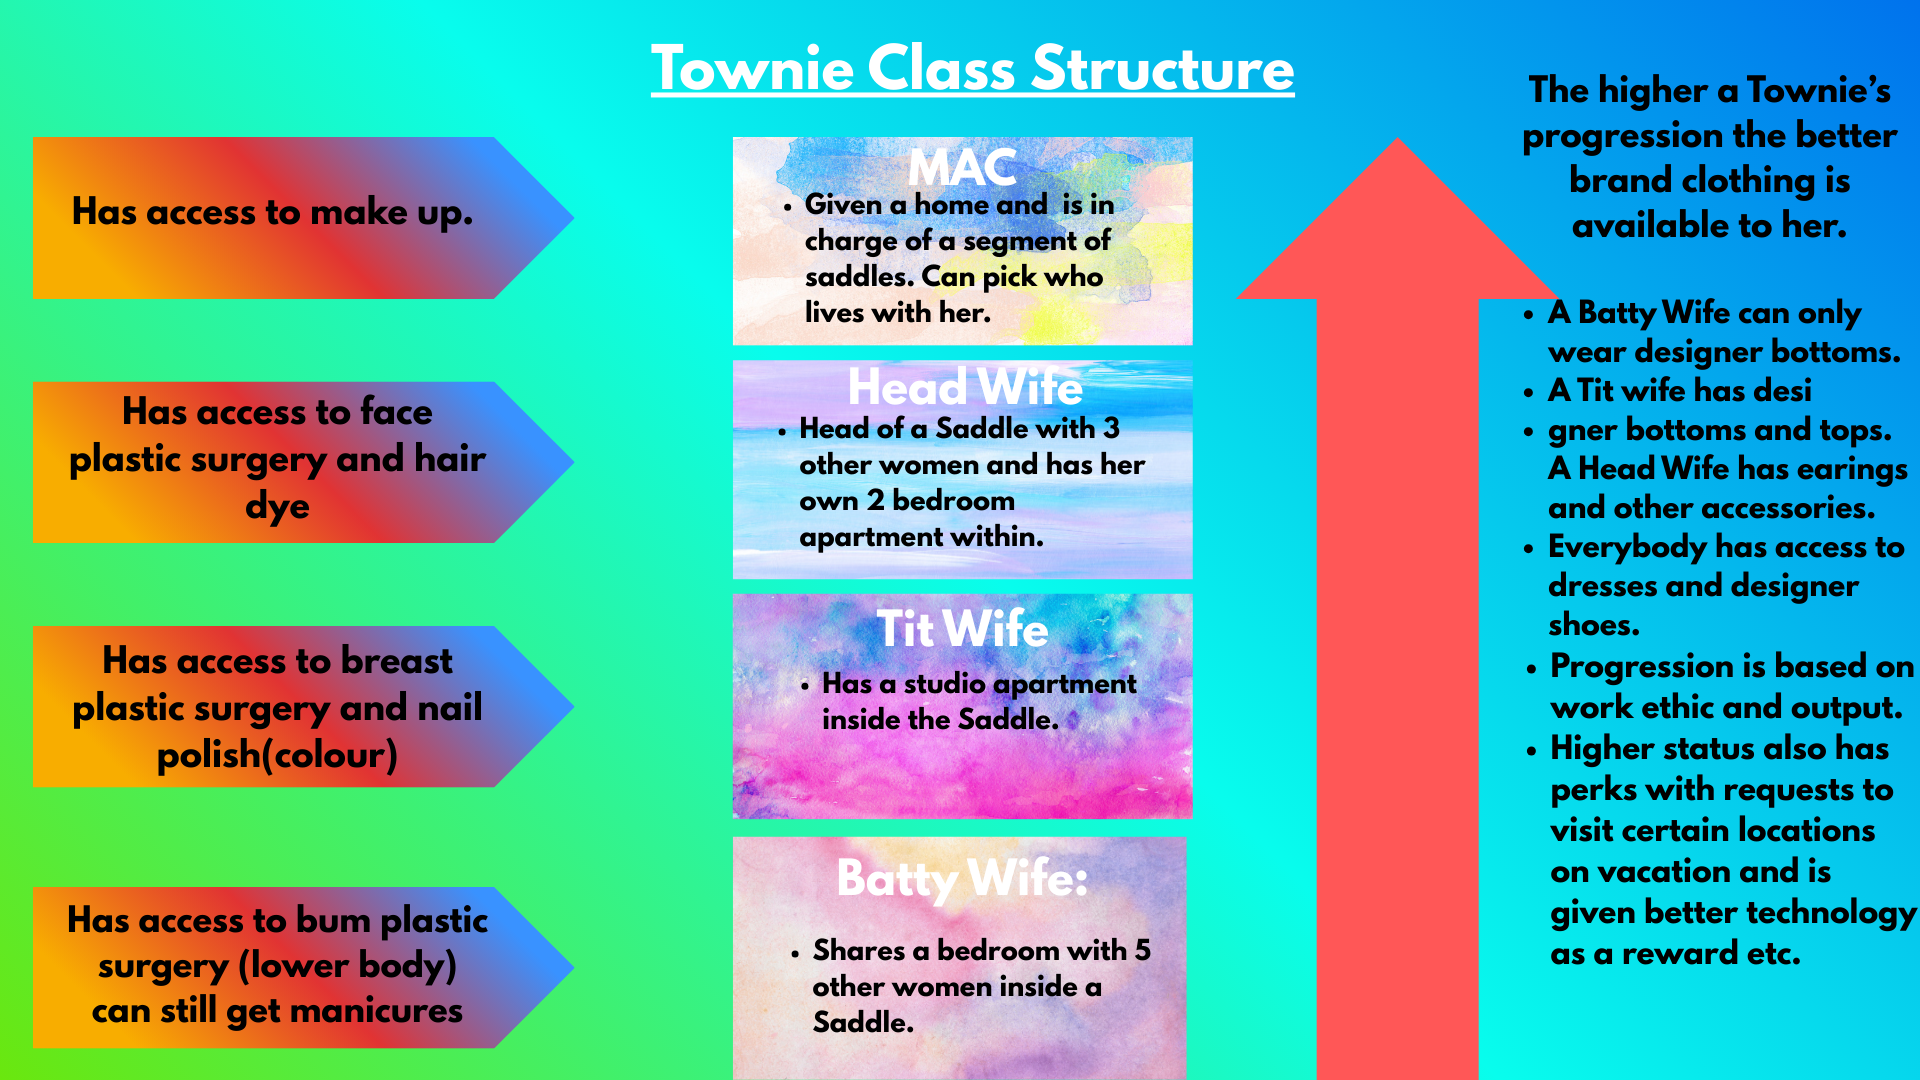
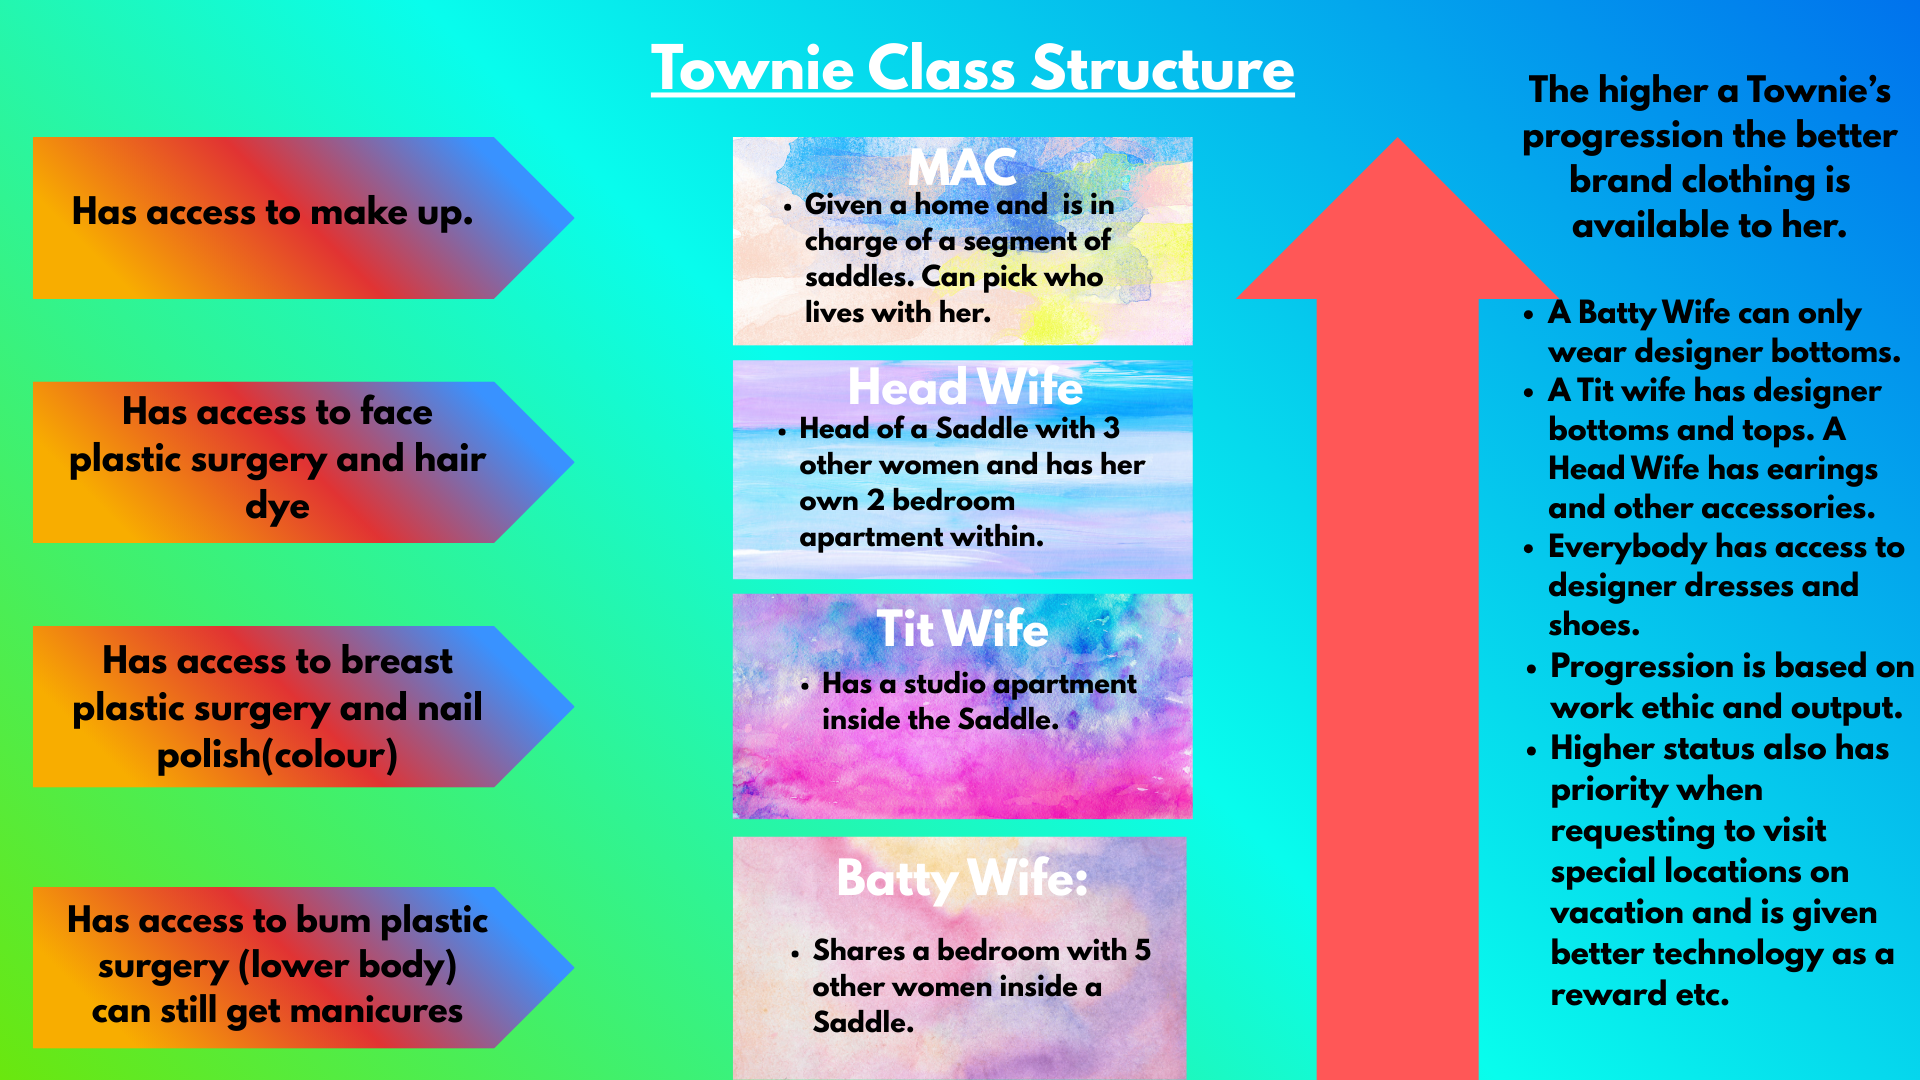
Starting the 28th day changes.

Changed region(s): [[0.8125, 0.7028, 1.0, 0.9472], [0.7812, 0.3361, 1.0, 0.4583], [0.8125, 0.5194, 0.9688, 0.55]]

diff --git a/src/App.js b/src/App.js
@@ -4688,8 +4688,8 @@ function DualCarouselCards() {
       { title: "Deacon's Wife", text: "Deacon's wifes are women that have been matched to be the wife of a deacon. They live in the Rus and work the same PMSEC roles, but have a higher standard of living.", img: "/images/classes/deaconwife.png" },
       { title: "Townie", text: "Townies are the typical women who scored reasonably well on the 89 exam and continue to pass the 114. They live in the towns where they raise thier children. Townies are obligated to have a 6 children 3 boys and 3 girls.", img: "/images/classes/townie.png" },
       { title: "City girl", text: "'City girls' are women that didn't get a high enough score to remain a townie but do not want to be an acolyte it is a secondary path available after the results of the WALTP. They can apply to live in the Emirate and be a bearer of 6 daughters. They must also work, but they do not work in production or manufacturing as the slaves do they work in entertainment and services. The daughters are raised in the Hidalgo and educated at the Thana before living in the Towns.", img: "/images/classes/citygirl.png" },
-      { title: "Acolyte", text: "Acolytes are women that scored below the avergae but not bad enouh to be slaves and work the MSHN around the CLT.", img: "/images/classes/femaleacolyte.png" },
-      { title: "Exiles", text:"Exile women are those that had sex before the age of 20 and have been paired for life with the male they had sex with to live in a motorbike for 6 years before living in a kharvee together, they are unable to progress above acolyte unless recruited to be a Polítēs with their partner,should she have sexual relations with another man on the route she will reclassed as a slave to work for the Priestesses in the Thana. This rule also applies to female acolytes who have sex before 20. If her partner progresses to Sexton she is not counted as one of his three wives.", img: "/images/classes/exile.png" },
+      { title: "Acolyte", text: "Acolytes are women that scored below the required score to stay in the town or progress to college and were not recruited to be a Polítēs. ", img: "/images/classes/femaleacolyte.png" },
+      { title: "Exiles", text:"Exile women are those that had sex before the age of 20 and have been paired for life with the male they had sex with to live in a motorbike for 6 years before living in a kharvee together, they are unable to progress above acolyte unless recruited to be a Polítēs with their partner,should she have sexual relations with another man on the route she will reclassed as a slave to work for the Priestesses in the Thana. This rule also applies to female acolytes who have sex before 20. If her partner progresses to Sexton she is not counted as one of his three wives. If she reaches the rank of a Reader she is allowed to return to the Town to be a Tit Wife.", img: "/images/classes/exile.png" },
       { title: "Slave", text: "Slaves are women that have commited a crime or performed very badly on the 89 test and now work for the priestesses in the Thana.", img: "/images/classes/femaleslave.png" }
     ], 
     three: [
@@ -5206,7 +5206,7 @@ const panels5 = Array.from({ length: 5 }).map((_, i) => ({
     {
       id: 6,
       title: "Teaching and learning",
-      img: "/images/city9.png"
+      img: "/images/srou.png"
     }
   ];
 
